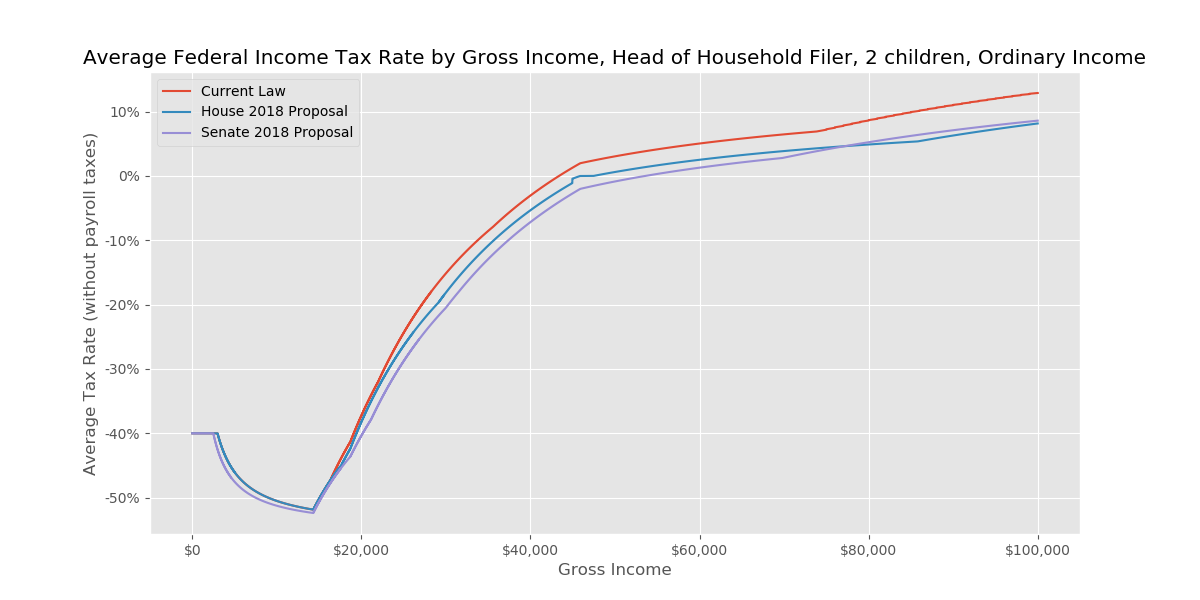
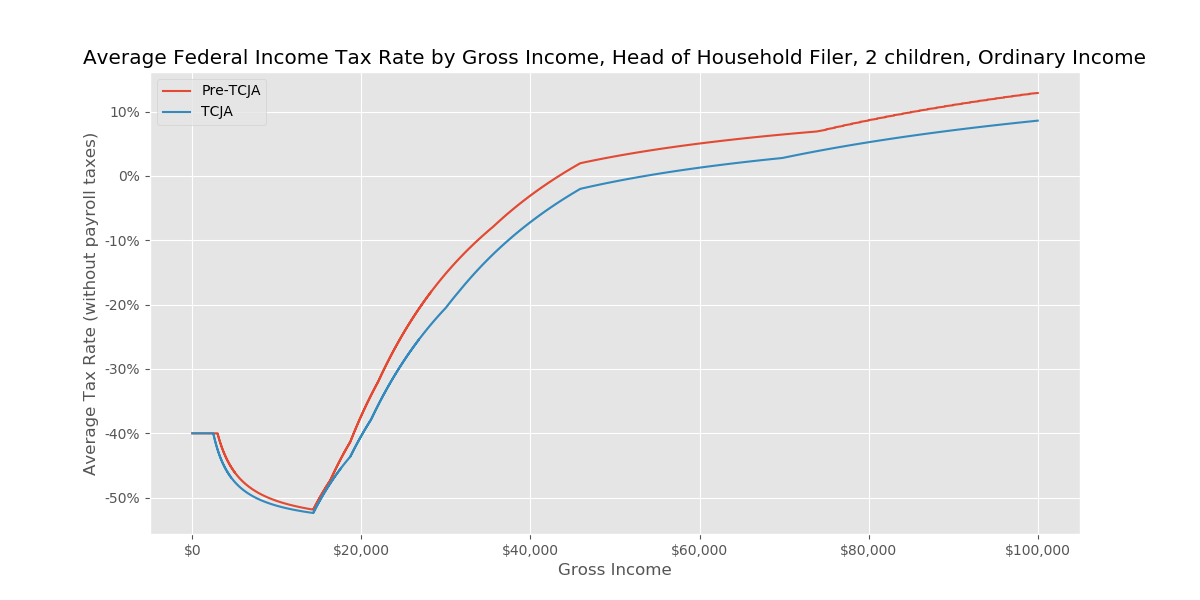
remove house proposal from figures

diff --git a/taxsim/graph.py b/taxsim/graph.py
@@ -31,7 +31,7 @@ def make_graph(main_income_type,
                rate_type="average"):
 
     current_law_result_list = []
-    house_2018_result_list = []
+    #house_2018_result_list = []
     senate_2018_result_list = []
 
     for i in range(start, stop):
@@ -48,16 +48,20 @@ def make_graph(main_income_type,
             default_taxpayer, taxsim.current_law_policy)
         current_law_result_list.append(current_law_result)
 
+        '''
         house_2018_result = taxsim.calc_house_2018_taxes(
             default_taxpayer, taxsim.house_2018_policy)
         house_2018_result_list.append(house_2018_result)
+        '''
 
         senate_2018_result = taxsim.calc_senate_2018_taxes(
             default_taxpayer, taxsim.senate_2018_policy)
         senate_2018_result_list.append(senate_2018_result)
 
     current_law_df = pd.DataFrame(current_law_result_list)
+    '''
     house_2018_df = pd.DataFrame(house_2018_result_list)
+    '''
     senate_2018_df = pd.DataFrame(senate_2018_result_list)
 
     # Save CSVs
@@ -66,11 +70,13 @@ def make_graph(main_income_type,
         file_name +
         '-current_law_graph_data.csv',
         index=False)
+    '''
     house_2018_df.to_csv(
         taxsim.GRAPH_DATA_RESULTS_DIR +
         file_name +
         '-house_2018_graph_data.csv',
         index=False)
+    '''
     senate_2018_df.to_csv(
         taxsim.GRAPH_DATA_RESULTS_DIR +
         file_name +
@@ -117,19 +123,21 @@ def make_graph(main_income_type,
         current_law_df["gross_income"],
         current_law_df[graph_rate_type],
         drawstyle=drawstyle_string,
-        label='Current Law')
+        label='Pre-TCJA')
+    '''
     # House 2018 Proposal
     ax.plot(
         house_2018_df["gross_income"],
         house_2018_df[graph_rate_type],
         drawstyle=drawstyle_string,
         label='House 2018 Proposal')
+    '''
     # Senate 2018 Proposal
     ax.plot(
         senate_2018_df["gross_income"],
         senate_2018_df[graph_rate_type],
         drawstyle=drawstyle_string,
-        label='Senate 2018 Proposal')
+        label='TCJA')
 
     ax.legend(loc='upper left')
     ax.set_title(
